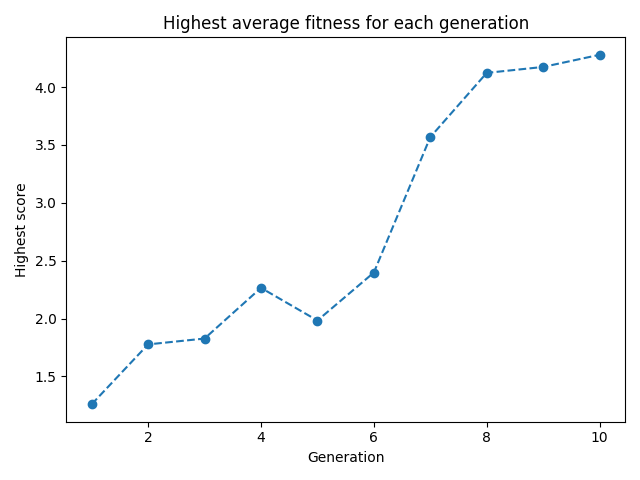
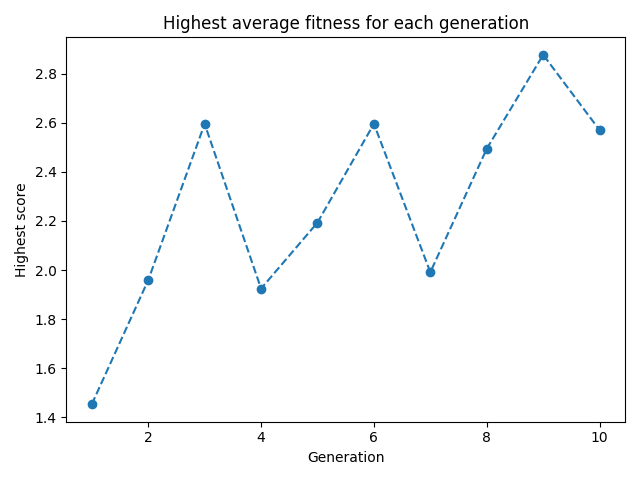
Trial with 2000 generations

diff --git a/src/geneticalgorithm.py b/src/geneticalgorithm.py
@@ -133,7 +133,7 @@ class Agent():
         self.mean_distance_to_apple = mean_distance_to_apple
         self.final_distance_to_closest_wall = final_distance_to_closest_wall
 
-        score = 10*self.apples_eaten + 0.01*self.total_ticks_survived - 10*self.mean_distance_to_apple
+        score = 100*self.apples_eaten + 0.01*self.total_ticks_survived - self.mean_distance_to_apple
 
         self.fitness = score
         self.ticks_without_eating = 0
@@ -195,7 +195,7 @@ class GeneticAlgorithm():
             print(f'[!] GeneticAlgorithm.selectAgents(): p cannot be greater than 1. Setting p=1.')
             p = 1
         
-        scores = self.getAgentFitnessScores(agents=agents, num_repeats_per_agent=10)
+        scores = self.getAgentFitnessScores(agents=agents, num_repeats_per_agent=100)
 
         agent_score_pairs = zip(agents, scores)
 
@@ -330,7 +330,7 @@ class GeneticAlgorithm():
         self.best_agent = self.agents[0]
 
         self.best_historical_score = 0
-        for i in range(self.num_generations):
+        for i in tqdm(range(self.num_generations)):
             print(f'[+] Current generation: {i + 1}')
             print('Selecting agents...')
             elites = self.selectAgents(agents=self.agents, p=p_selection)
@@ -340,9 +340,9 @@ class GeneticAlgorithm():
 
             # If the highest score from this generation exceeds the highest all-time score, play the replay
             self.generation_stats.append([i + 1, highest_current_score])
-            if self.best_historical_score < highest_current_score:
-                self.best_agent.game.loadGridRecordsFromJSON(f'replays/best-agent.json')
-                self.best_agent.game.replay(snake_moves_per_second=self.snake_moves_per_second, title=f'Current best snake (generation {i + 1})')
+            # if self.best_historical_score < highest_current_score:
+            #     self.best_agent.game.loadGridRecordsFromJSON(f'replays/best-agent.json')
+            #     self.best_agent.game.replay(snake_moves_per_second=self.snake_moves_per_second, title=f'Current best snake (generation {i + 1})')
 
             print('Performing crossover...')
             offspring = self.crossover(agents=elites, layers=self.layers, population_size=self.population_size)
@@ -355,8 +355,6 @@ class GeneticAlgorithm():
             self.agents = new_population
 
             
-
-
         end_time = time.time()
         total_time = end_time - start_time
         print(f'[+] Simulated {self.num_generations} generations of {self.population_size} Agents in {total_time:.2f} seconds at an average of {total_time/self.num_generations:.2f} seconds/generation.')

diff --git a/src/main.py b/src/main.py
@@ -3,33 +3,41 @@ import matplotlib.pyplot as plt
 
 from geneticalgorithm import *
 from game import *
+LAYERS = [
+    [2 + 2 + 1 + 4, 48, ELU],
+    [None, 48, ELU],
+    [None, 24, ELU],
+    [None, 4, identity]
+]
+
+POPULATION_SIZE = 1000
+
+NUM_GENERATIONS = 300
 
 if __name__ == '__main__':
-    LAYERS = [
-        [2 + 2 + 1 + 4, 48, ELU],
-        [None, 48, ELU],
-        [None, 24, ELU],
-        [None, 4, identity]
-    ]
+    # ga = GeneticAlgorithm(
+    #     layers=LAYERS,
+    #     population_size=POPULATION_SIZE,
+    #     num_generations=NUM_GENERATIONS,
+    #     game_fps=0, # Uncapped
+    #     snake_moves_per_second=7
+    # )
 
-    POPULATION_SIZE = 10000
+    # ga.execute(p_selection=0.1, p_mutation = 0.2, std_mutation=0.5)
 
-    NUM_GENERATIONS = 100
+    # data = np.array(ga.generation_stats)
+    # plt.title('Highest average fitness for each generation')
+    # plt.plot(data[:, 0], data[:, 1], linestyle='--', marker='o')
+    # plt.xlabel('Generation')
+    # plt.ylabel('Highest score')
+    # plt.tight_layout()
+    # plt.savefig('generation_stats.png')
 
-    ga = GeneticAlgorithm(
-        layers=LAYERS,
-        population_size=POPULATION_SIZE,
-        num_generations=NUM_GENERATIONS,
-        game_fps=0, # Uncapped
-        snake_moves_per_second=7
+    game = Game(
+        game_fps=GAME_FPS,
+        snake_moves_per_second=SNAKE_MOVES_PER_SECOND,
+        agent=None
     )
 
-    ga.execute(p_selection=0.05, p_mutation = 0.1, std_mutation=0.1)
-
-    data = np.array(ga.generation_stats)
-    plt.title('Highest average fitness for each generation')
-    plt.plot(data[:, 0], data[:, 1], linestyle='--', marker='o')
-    plt.xlabel('Generation')
-    plt.ylabel('Highest score')
-    plt.tight_layout()
-    plt.savefig('generation_stats.png')
+    game.loadGridRecordsFromJSON('replays/best-agent.json')
+    game.replay(snake_moves_per_second=SNAKE_MOVES_PER_SECOND, title='Best snake replay')

diff --git a/src/game.py b/src/game.py
@@ -360,9 +360,11 @@ class Game():
             self.snake.score += 1
             self.snake.grow()
             self.apple.respawn()
+
             if self.agent != None:
-                # Reset iterations counter
                 self.agent.ticks_without_eating = 0
+        
+        # Human player: decrement the time delta by the time dedicated to this tick
         if self.agent == None:
             self.accumulated_time -= self.logic_time_interval
 
@@ -435,13 +437,3 @@ class Game():
 
         return final_score, final_distance_to_apple, final_distance_to_closest_wall, mean_distance_to_apple
 
-game = Game(
-    game_fps=GAME_FPS,
-    snake_moves_per_second=SNAKE_MOVES_PER_SECOND,
-    agent=None
-)
-
-# game.startGame()
-
-# game.loadGridRecordsFromJSON('replays/best-agent.json')
-# game.replay(snake_moves_per_second=SNAKE_MOVES_PER_SECOND, title='Best snake replay')
